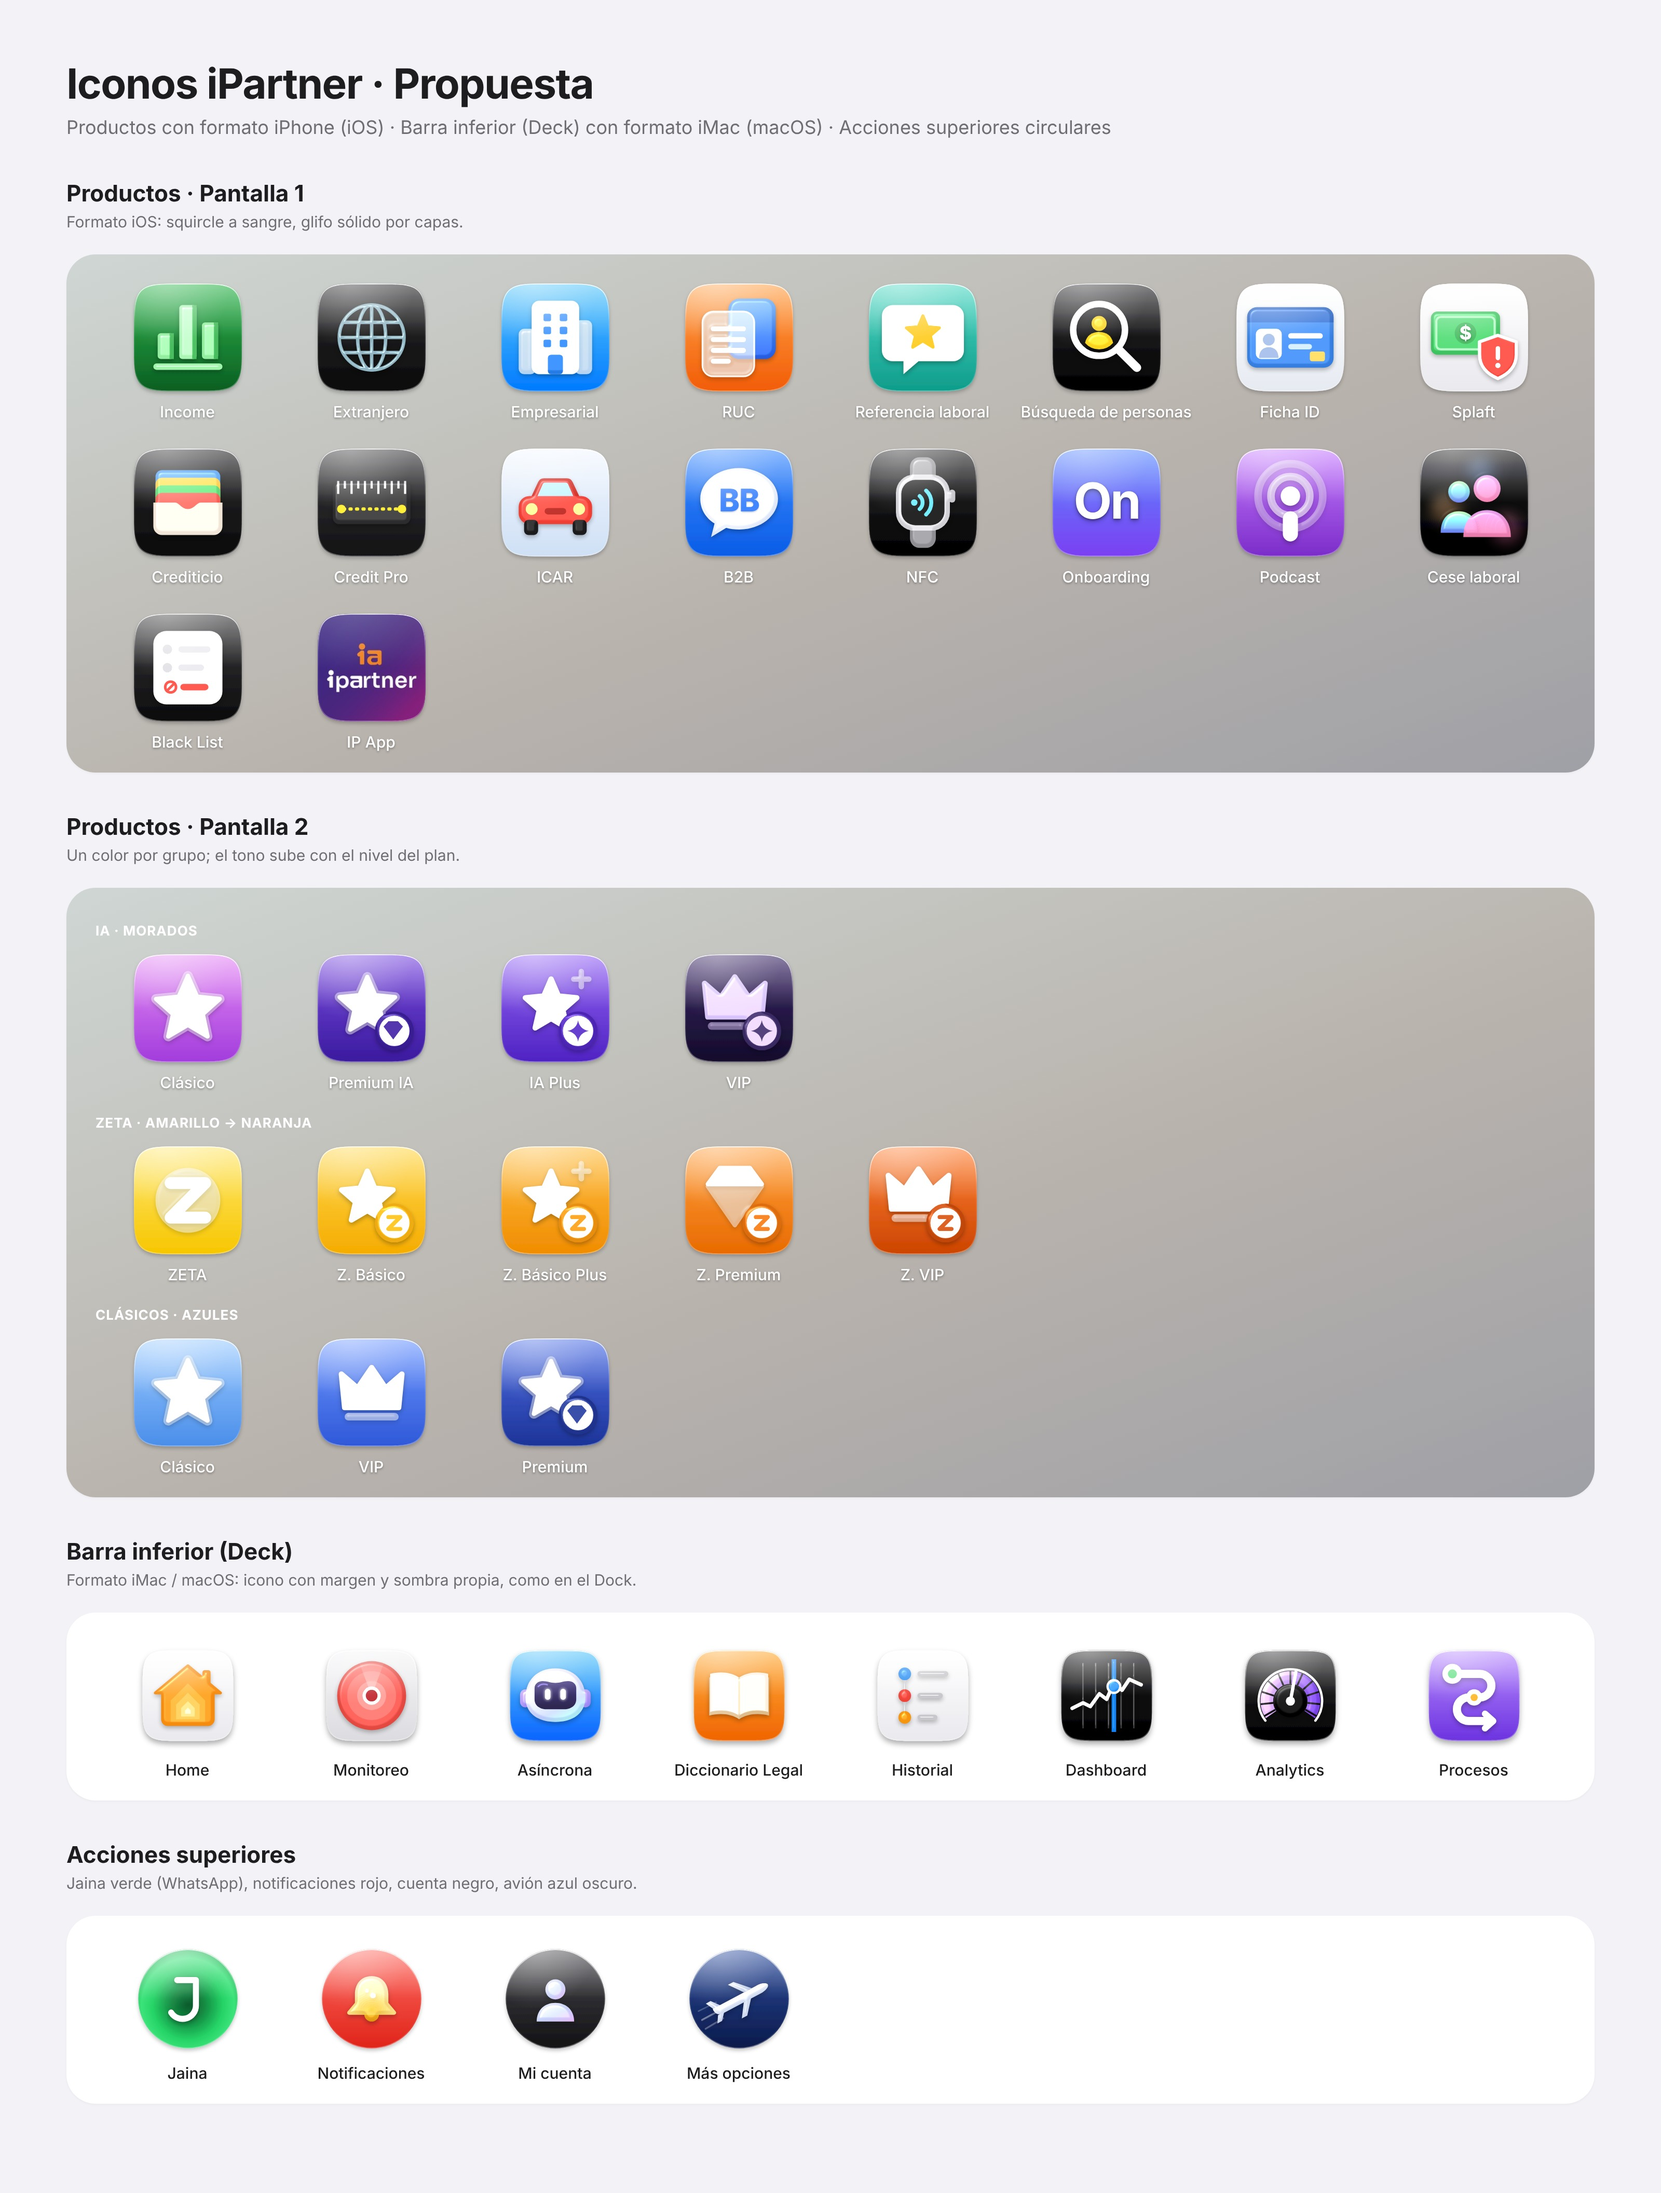
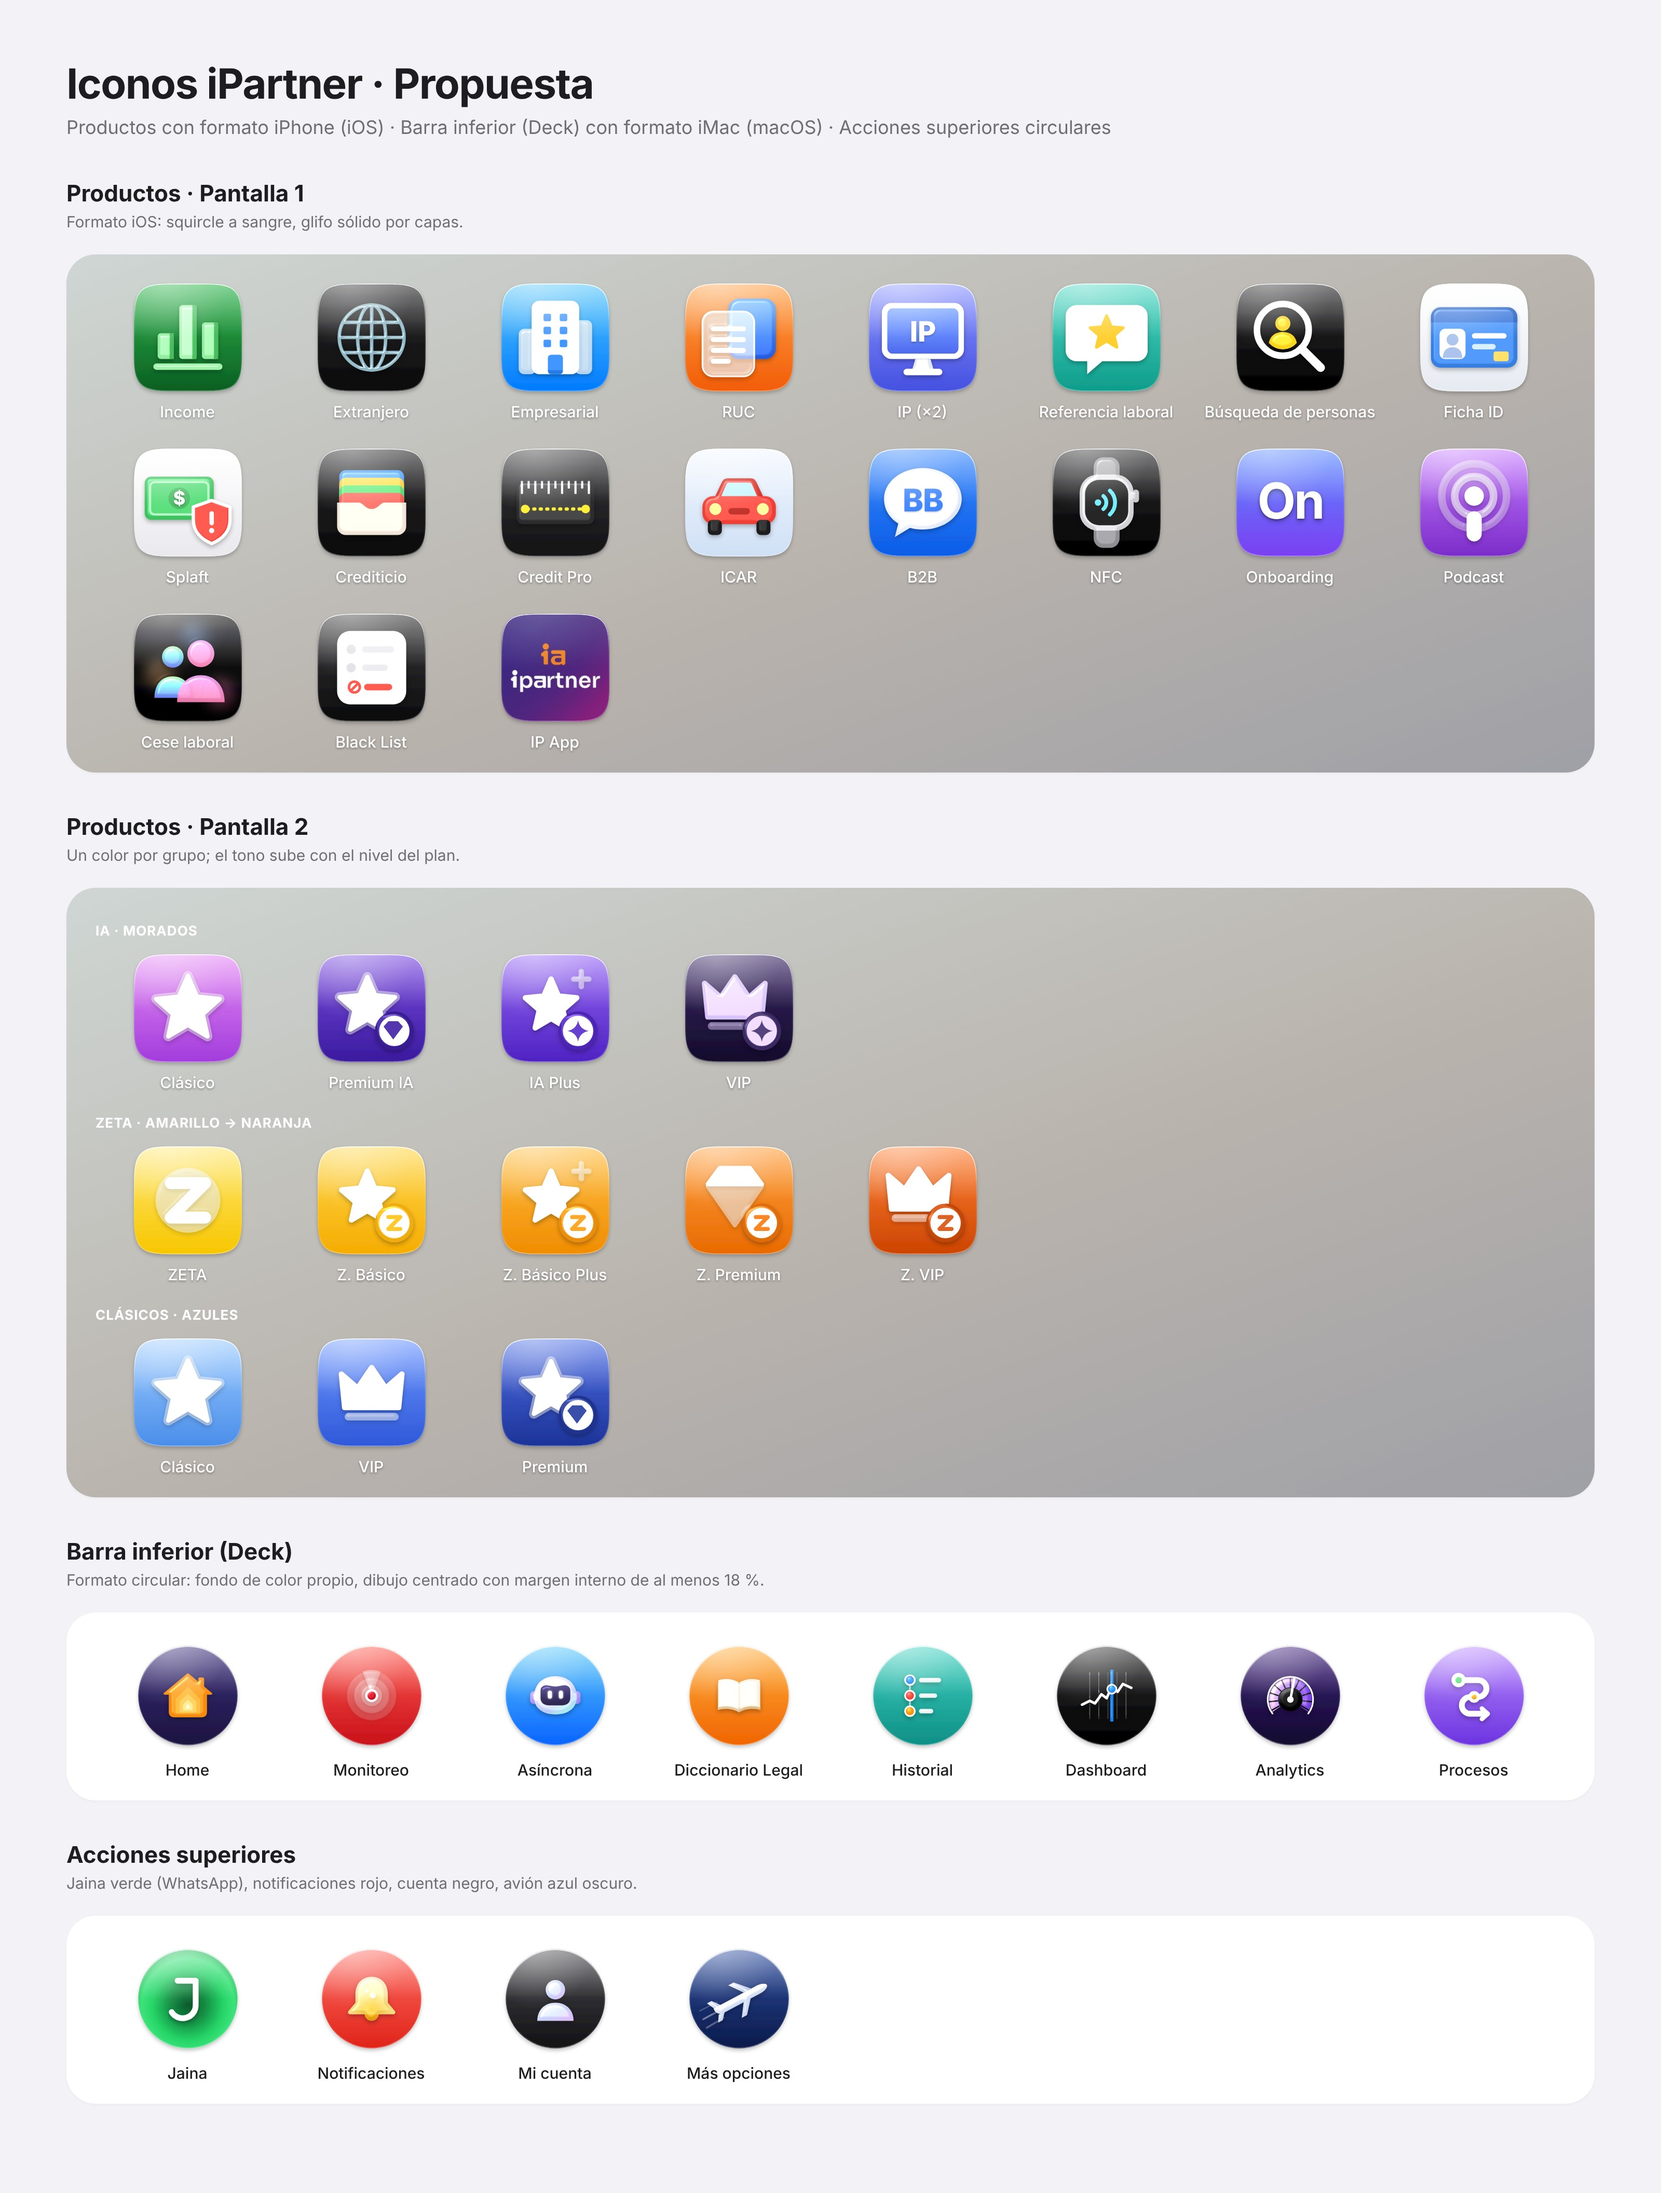
Hoja de iconos: Dock circular con fondo de color y margen interno, e icono IP (×2) estilo iOS
Claude-Session: https://claude.ai/code/session_013FvKEZxsCiBjp9t4yEHMvN

diff --git a/iconos/hoja-iconos.html b/iconos/hoja-iconos.html
@@ -141,6 +141,8 @@ Object.assign(G,{
 Object.assign(G,{'cese-laboral':`<defs><filter id="ce-bl" x="-50%" y="-50%" width="200%" height="200%"><feGaussianBlur stdDeviation="6"/></filter><linearGradient id="ce-p1" x1="0" y1="0" x2="0" y2="1"><stop offset="0" stop-color="#C8FFB8"/><stop offset=".45" stop-color="#6FE3F0"/><stop offset="1" stop-color="#6A7CFF"/></linearGradient><linearGradient id="ce-p2" x1="0" y1="0" x2="0" y2="1"><stop offset="0" stop-color="#F7A6FF"/><stop offset="1" stop-color="#FF7EB3"/></linearGradient><linearGradient id="ce-gl" x1="0" y1="0" x2="1" y2="0"><stop offset="0" stop-color="#FFC48A" stop-opacity=".55"/><stop offset=".45" stop-color="#7FB2FF" stop-opacity=".5"/><stop offset="1" stop-color="#C99BFF" stop-opacity=".45"/></linearGradient></defs><g filter="url(#ce-bl)" opacity=".3"><circle cx="24" cy="56" r="14" fill="#FFB060"/><circle cx="56" cy="20" r="12" fill="#5AA0FF"/><circle cx="80" cy="74" r="14" fill="#FF6FA8"/></g><circle cx="36" cy="40" r="10" fill="url(#ce-p1)"/><path d="M19 78c0-13 7-20 17-20s17 7 17 20Z" fill="url(#ce-p1)"/><circle cx="62" cy="37" r="12.5" fill="url(#ce-p2)"/><path d="M40 82c0-16 9.5-25 22-25s22 9 22 25Z" fill="url(#ce-p2)" fill-opacity=".95"/>`});
 // Robot nuevo (Asíncrona)
 Object.assign(G,{'Asíncrona':`<defs><linearGradient id="rb-h" x1="0" y1="0" x2=".6" y2="1"><stop offset="0" stop-color="#FFFFFF"/><stop offset=".45" stop-color="#E6E3FF"/><stop offset=".8" stop-color="#B9C8FF"/><stop offset="1" stop-color="#A7EAF5"/></linearGradient><linearGradient id="rb-e" x1="0" y1="0" x2="1" y2="1"><stop offset="0" stop-color="#D9B8FF"/><stop offset="1" stop-color="#8E7BFF"/></linearGradient><linearGradient id="rb-v" x1="0" y1="0" x2="0" y2="1"><stop offset="0" stop-color="#2A1E6E"/><stop offset="1" stop-color="#120A35"/></linearGradient><filter id="rb-g" x="-50%" y="-50%" width="200%" height="200%"><feGaussianBlur stdDeviation="1.4"/></filter></defs><rect x="11" y="43" width="12" height="20" rx="6" fill="url(#rb-e)"/><rect x="77" y="43" width="12" height="20" rx="6" fill="url(#rb-e)"/><path d="M50 20c20 0 33 13 33 32 0 17-13 27-33 27S17 69 17 52c0-19 13-32 33-32Z" fill="url(#rb-h)"/><path d="M27 42c0-5 4-8 9-8 5 0 9 2 14 2s9-2 14-2c5 0 9 3 9 8v12c0 7-6 11-13 11H40c-7 0-13-4-13-11Z" fill="url(#rb-v)"/><path d="M31 40c3-3 7-3 10-2" stroke="#8C6BFF" stroke-width="1.6" stroke-linecap="round" fill="none" opacity=".8"/><g fill="#fff"><rect x="38" y="42" width="7" height="13" rx="3.5" filter="url(#rb-g)" opacity=".7"/><rect x="55" y="42" width="7" height="13" rx="3.5" filter="url(#rb-g)" opacity=".7"/><rect x="38.5" y="42.5" width="6" height="12" rx="3"/><rect x="55.5" y="42.5" width="6" height="12" rx="3"/></g>`});
+// Dock circular + IP
+Object.assign(G,{'ip':`<defs><linearGradient id="ip-s" x1="0" y1="0" x2="0" y2="1"><stop offset="0" stop-color="#5B8CFF"/><stop offset="1" stop-color="#2F4FE0"/></linearGradient></defs><rect x="12" y="18" width="76" height="52" rx="9" fill="#fff"/><rect x="17" y="23" width="66" height="42" rx="5" fill="url(#ip-s)"/><text x="50" y="54" text-anchor="middle" font-family="-apple-system,BlinkMacSystemFont,SF Pro Display,Inter,sans-serif" font-weight="800" font-size="26" fill="#fff">IP</text><path d="M43 70h14l3 10H40Z" fill="#E3E8F5"/><rect x="32" y="79" width="36" height="6" rx="3" fill="#fff"/>`,'Historial':`<path d="M30 22v56" stroke="#fff" stroke-opacity=".55" stroke-width="3"/><circle cx="30" cy="26" r="7.5" fill="#0A84FF" stroke="#fff" stroke-width="2.5"/><rect x="44" y="22.5" width="34" height="7" rx="3.5" fill="#fff" fill-opacity=".9"/><circle cx="30" cy="50" r="7.5" fill="#FF3B30" stroke="#fff" stroke-width="2.5"/><rect x="44" y="46.5" width="28" height="7" rx="3.5" fill="#fff" fill-opacity=".9"/><circle cx="30" cy="74" r="7.5" fill="#FF9500" stroke="#fff" stroke-width="2.5"/><rect x="44" y="70.5" width="22" height="7" rx="3.5" fill="#fff" fill-opacity=".9"/>`,'Monitoreo':`<circle cx="50" cy="50" r="38" fill="#fff" fill-opacity=".16"/><circle cx="50" cy="50" r="27" fill="#fff" fill-opacity=".2"/><circle cx="50" cy="50" r="16" fill="#fff" fill-opacity=".28"/><path d="M50 50L36 13A38 38 0 0 1 64 13Z" fill="#fff" fill-opacity=".35"/><circle cx="50" cy="50" r="10" fill="#fff"/><circle cx="50" cy="50" r="6.5" fill="#D70015"/>`});
 // Colores: [fondo1, fondo2, glifo opcional (fondo blanco/negro/crema), glifo en oscuro opcional]
 const C={income:['#55DB6C','#1A9A3A'],extranjero:['#3FE3D1','#06A39C'],proveedor:['#9AACBF','#4B5E74',,'#B9C8D8'],ruc:['#FFA54A','#FF5F00'],
  ip:['#8C96FF','#4450E0'],'referencia-laboral':['#B8E44C','#62A812'],'busqueda-personas':['#62D4FF','#0093DD'],'ficha-id':['#FFFFFF','#E6EAF1','#2E6BF0'],
@@ -160,6 +162,7 @@ Object.assign(C,{'onboarding':['#5B8CFF','#7B3FF2'],'busqueda-personas':['#2C2C2
 Object.assign(C,{'proveedor':['#5AC8FA','#007AFF'],'b2b':['#FF8A5B','#FF3D71'],'referencia-laboral':['#FFD36B','#FF9F0A'],'cese-laboral':['#3FC8BC','#0F7F77'],'Procesos':['#B98BFF','#6C33E0']});
 Object.assign(C,{'Analytics':['#2A2A2C','#000000'],'b2b':['#3D8BFF','#0A5CE6'],'referencia-laboral':['#4FD8C4','#0E9C8A']});
 Object.assign(C,{'cese-laboral':['#141418','#000000']});
+Object.assign(C,{'ip':['#8C96FF','#4450E0'],'Home':['#3A2E7A','#1C1440'],'Monitoreo':['#FF5A4F','#C8101A'],'Historial':['#3FD1C0','#0E8F86'],'Analytics':['#3B1E7A','#120A2E'],'Dashboard':['#2C2C2E','#000000']});
 const TOP={btnJaina:['#5BEA8A','#1FB855',`<path class="ps" stroke-width="9" d="M34 22h28v38a20 20 0 0 1-37 10.5"/>`],
  btnNotif:['#FF6B61','#E0241A',`<path class="p" d="M50 14c-14 0-24 10.5-24 25v14l-8 11h64l-8-11V39c0-14.5-10-25-24-25Z"/><path class="s" d="M40 70a10 10 0 0 0 20 0Z"/><circle class="p" cx="50" cy="12" r="4"/>`],
  btnUser:['#4A4A4F','#111113',`<circle class="p" cx="50" cy="35" r="15"/><path class="p" d="M22 84c0-17 12.5-27 28-27s28 10 28 27Z"/>`],
@@ -177,7 +180,7 @@ function tile(key,shape,colors,glyph,special){const id='i'+(n++);const [c1,c2,g]
  else{clip=null}
  const bgPath=shape==='circle'?`<circle cx="50" cy="50" r="46"/>`:`<path d="${clip}"/>`;
  const fill=special==='jaina'?`url(#${id}j)`:`url(#${id}g)`;
- const sc=shape==='mac'?'translate(50 50) scale(.84) translate(-50 -50)':(shape==='circle'?'translate(50 50) scale(.62) translate(-50 -50)':'');
+ const sc=shape==='mac'?'translate(50 50) scale(.84) translate(-50 -50)':(shape==='circle'?'translate(50 50) scale(.6) translate(-50 -50)':'');
  const hv=home?`--h0:#FF8A00;--h1:#FFA21A;--h2:#FFB83D;--h3:#FFD271;--h4:#FFF1BC;`:'';
  return `<svg class="t" viewBox="0 0 100 100" style="--p:${special==='jaina'?'#fff':P};--cut:${cut};--so:.5;${hv}">
  <defs><linearGradient id="${id}g" x1="0" y1="0" x2="0" y2="1"><stop offset="0" stop-color="${c1}"/><stop offset="1" stop-color="${c2}"/></linearGradient>
@@ -192,7 +195,7 @@ function tile(key,shape,colors,glyph,special){const id='i'+(n++);const [c1,c2,g]
 const css=document.createElement('style');css.textContent=`.n2 .p{fill:var(--p)}.n2 .s{fill:var(--p);opacity:var(--so)}.n2 .c{fill:var(--cut)}.n2 .ps{fill:none;stroke:var(--p);stroke-linecap:round;stroke-linejoin:round}.n2 .ss{fill:none;stroke:var(--p);opacity:var(--so);stroke-linecap:round;stroke-linejoin:round}.n2 .cs{fill:none;stroke:var(--cut);stroke-linecap:round;stroke-linejoin:round}`;document.head.appendChild(css);
 const L=(arr,shape)=>`<div class="grid">${arr.map(([k,name])=>`<div class="app">${tile(k,shape,C[k],G[k])}<span>${name}</span></div>`).join('')}</div>`;
[1 lines of base64/hex data omitted]
-const p1=[['income','Income'],['extranjero','Extranjero'],['proveedor','Empresarial'],['ruc','RUC'],['referencia-laboral','Referencia laboral'],['busqueda-personas','Búsqueda de personas'],['ficha-id','Ficha ID'],
+const p1=[['income','Income'],['extranjero','Extranjero'],['proveedor','Empresarial'],['ruc','RUC'],['ip','IP (×2)'],['referencia-laboral','Referencia laboral'],['busqueda-personas','Búsqueda de personas'],['ficha-id','Ficha ID'],
  ['splaft','Splaft'],['crediticio','Crediticio'],['credit-pro','Credit Pro'],['icar','ICAR'],['b2b','B2B'],['nfc','NFC'],['onboarding','Onboarding'],['podcast','Podcast'],['cese-laboral','Cese laboral'],['black-list','Black List'],['app-ip','IP App']];
 const ia=[['clasico-ia','Clásico'],['premium-ia','Premium IA'],['ia-plus','IA Plus'],['vip-ia','VIP']];
 const z=[['zeta','ZETA'],['z-basico','Z. Básico'],['z-basico-plus','Z. Básico Plus'],['z-premium','Z. Premium'],['z-vip','Z. VIP']];
@@ -205,7 +208,7 @@ document.getElementById('s').innerHTML=`<h1>Iconos iPartner · Propuesta</h1><p 
 <h2>Productos · Pantalla 1</h2><p class="h2s">Formato iOS: squircle a sangre, glifo sólido por capas.</p><div class="grp wall">${L(p1,'ios')}</div>
 <h2>Productos · Pantalla 2</h2><p class="h2s">Un color por grupo; el tono sube con el nivel del plan.</p>
 <div class="grp wall"><div class="gt" style="color:#fff">IA · MORADOS</div>${L(ia,'ios')}<div class="gt" style="color:#fff;margin-top:22px">ZETA · AMARILLO → NARANJA</div>${L(z,'ios')}<div class="gt" style="color:#fff;margin-top:22px">CLÁSICOS · AZULES</div>${L(cl,'ios')}</div>
-<h2>Barra inferior (Deck)</h2><p class="h2s">Formato iMac / macOS: icono con margen y sombra propia, como en el Dock.</p><div class="grp">${L(dock,'mac')}</div>
+<h2>Barra inferior (Deck)</h2><p class="h2s">Formato circular: fondo de color propio, dibujo centrado con margen interno de al menos 18 %.</p><div class="grp">${L(dock,'circle')}</div>
 <h2>Acciones superiores</h2><p class="h2s">Jaina verde (WhatsApp), notificaciones rojo, cuenta negro, avión azul oscuro.</p>
 <div class="grp"><div class="grid">${tops.map(([k,nm,sp])=>`<div class="app">${tile(k,'circle',[TOP[k][0],TOP[k][1]],TOP[k][2],sp)}<span>${nm}</span></div>`).join('')}</div></div>`;
 </script></body></html>
